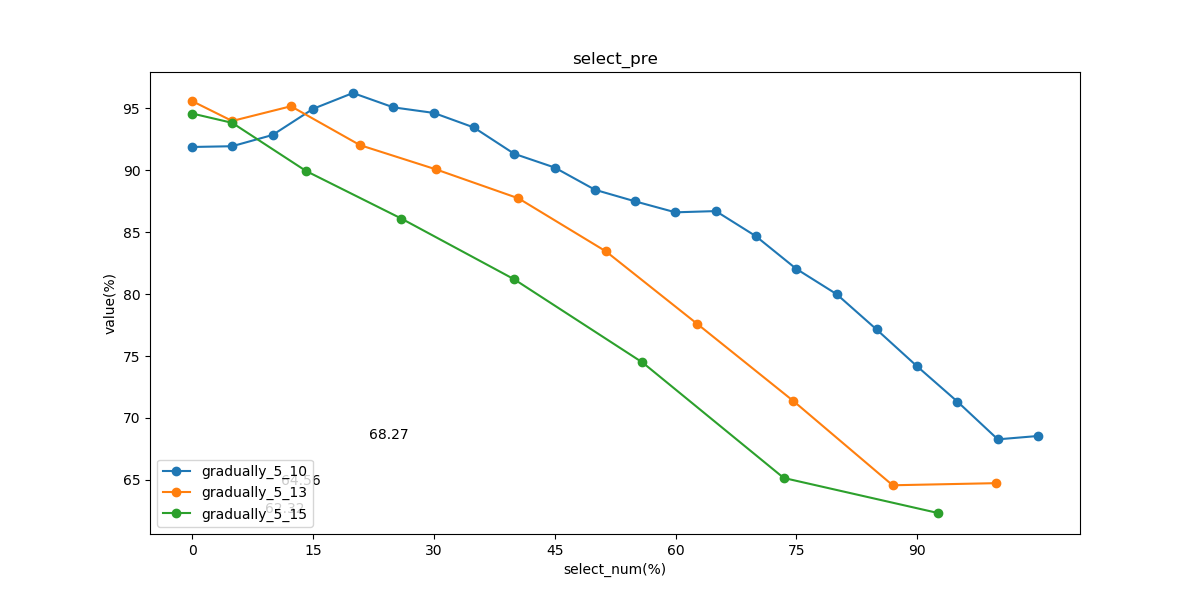
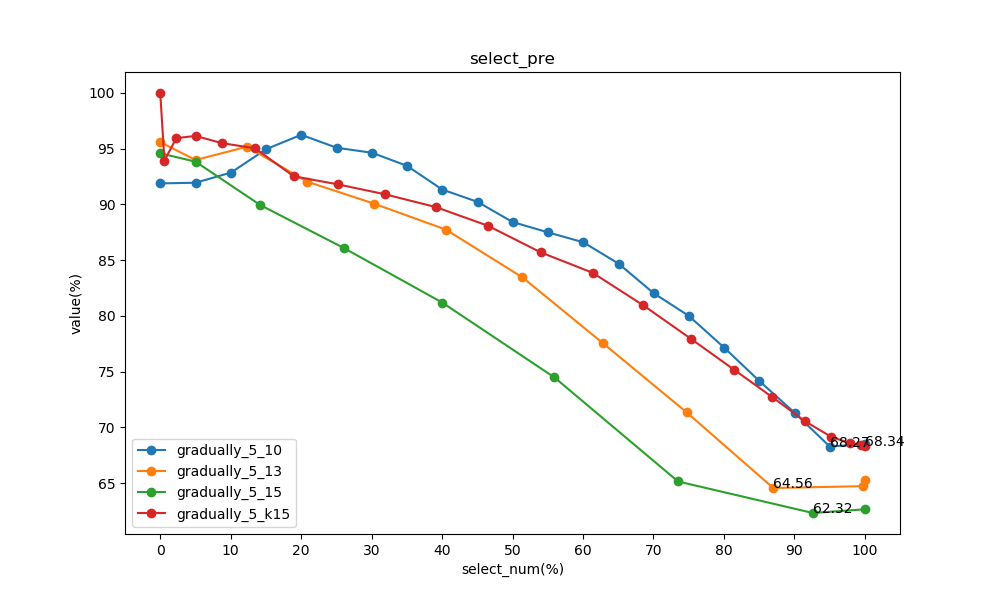
绘图成功

diff --git a/data.py b/data.py
@@ -12,36 +12,104 @@
 
 gradually_5_15={
     "title":"gradually_5_15",
-    "length": 8,
-    "p":15,
-    "mAP" : [28.2, 30.5, 36.7, 40.0, 47.0, 51.5, 52.7, 54.0],
-    "top1" : [33.3, 34.8, 43.2, 46.3, 54.4, 59.8, 60.3, 62.8],
-    "top5" : [50.0, 52.4, 58.4, 62.5, 70.8, 75.8, 76.5, 78.2],
-    "top10" : [56.0, 59.8, 63.7, 68.9, 76.1, 80.1, 82.5, 82.2],
-    "top20" : [63.4, 65.7, 69.7, 74.8, 80.8, 85.6, 87.0, 85.9],
-    "label_pre" : [40.8, 43.5, 48.3, 51.3, 56.6, 59.6, 61.6, 62.3],
-    "select_pre" : [94.59, 93.84, 89.95, 86.10, 81.2, 74.48, 65.15, 62.32]}
+    "length": 9,
+    "mAP" :       [28.2, 30.5, 36.7, 40.0, 47.0, 51.5, 52.7, 54.0,54.1],
+    "top1" :      [33.3, 34.8, 43.2, 46.3, 54.4, 59.8, 60.3, 62.8,63.4],
+    "top5" :      [50.0, 52.4, 58.4, 62.5, 70.8, 75.8, 76.5, 78.2,78.2],
+    "top10" :     [56.0, 59.8, 63.7, 68.9, 76.1, 80.1, 82.5, 82.2,82.8],
+    "top20" :     [63.4, 65.7, 69.7, 74.8, 80.8, 85.6, 87.0, 85.9,86.8],
+    "label_pre" : [40.8, 43.5, 48.3, 51.3, 56.6, 59.6, 61.6, 62.3,62.7],
+    "select_pre" : [94.59, 93.84, 89.95, 86.10, 81.2, 74.48, 65.15, 62.32,62.65]}
 
 gradually_5_13={
     "title":"gradually_5_13",
-    "length": 11,
-    "p":13,
-    "mAP" : [30.2,31.3,35.3,40.8,44.0,49.0,50.3,53.5,54.1,56.0,54.8],
-    "top1" : [35.9,35.9,40.6,47.3,50.3,57.0,59.4,62.5,62.8,65.4,63.4],
-    "top5" : [52.1,54.7,56.7,63.8,67.7,72.2,74.1,77.8,77.5,79.1,78.2],
-    "top10" : [59.4,60.4,63.0,69.7,72.8,76.5,78.5,81.8,81.5,83.6,83.5],
-    "top20" : [65.0,66.0,70.4,74.6,77.2,81.6,83.0,84.9,85.8,86.6,86.9],
-    "label_pre" : [42.3,42.7,46.9,53.6,56.3,58.2,61.6,63.3,64.1,64.5,64.7],
-    "select_pre" : [95.59,93.99,95.18,92.04,90.08,87.74,83.46,77.58,71.36,64.56,64.73]}
+    "length": 12,
+    "mAP" :       [30.2,31.3,35.3,40.8,44.0,49.0,50.3,53.5,54.1,56.0,54.8,55.6],
+    "top1" :      [35.9,35.9,40.6,47.3,50.3,57.0,59.4,62.5,62.8,65.4,63.4,64.5],
+    "top5" :      [52.1,54.7,56.7,63.8,67.7,72.2,74.1,77.8,77.5,79.1,78.2,78.5],
+    "top10" :     [59.4,60.4,63.0,69.7,72.8,76.5,78.5,81.8,81.5,83.6,83.5,82.3],
+    "top20" :     [65.0,66.0,70.4,74.6,77.2,81.6,83.0,84.9,85.8,86.6,86.9,86.5],
+    "label_pre" : [42.3,42.7,46.9,53.6,56.3,58.2,61.6,63.3,64.1,64.5,64.7,65.3],
+    "select_pre" : [95.59,93.99,95.18,92.04,90.08,87.74,83.46,77.58,71.36,64.56,64.73,65.26]}
 
 gradually_5_10={
     "title":"gradually_5_10",
-    "length": 22,
+    "length": 21,
     "p":10,
-    "mAP" : [29.4,30.1,34.0,39.4,40.6,42.2,45.8,47.2,46.9,49.2,51.3,52.1,53.3,52.9,56.2,56.4,58.6,56.7,57.1,57.2,56.2,57.6],
-    "top1" : [34.5,34.8,39.7,45.0,47.2,49.4,53.1,54.4,54.7,57.7,59.0,62.0,62.1,61.7,66.4,66.4,67.1,65.8,66.8,65.8,65.4,67.2],
-    "top5" : [49.0,52.0,56.7,62.0,63.4,64.5,69.7,71.2,72.4,71.9,76.9,75.8,78.2,78.3,79.9,79.2,81.2,78.8,81.1,80.3,80.2,80.5],
-    "top10" : [56.1,60.7,63.1,68.2,69.4,69.9,75.5,75.9,76.8,78.1,80.8,80.6,82.8,82.9,83.5,83.5,84.5,82.8,84.6,84.3,84.6,83.8],
-    "top20" : [63.0,66.5,68.8,73.4,76.1,75.5,81.3,81.1,80.5,82.9,83.5,84.0,85.3,85.6,87.3,87.7,87.6,87.2,87.9,88.7,87.5,88.2],
-    "label_pre" : [41.8,42.8,45.3,50.1,51.8,54.8,56.0,57.8,57.8,60.0,62.7,62.6,64.7,65.1,65.3,66.7,68.1,67.5,67.8,68.2,68.3,68.5],
-    "select_pre" : [91.89,91.95,92.86,94.97,96.25,95.09,94.64,93.47,91.34,90.23,88.43,87.50,86.61,86.71,84.69,82.05,80.00,77.15,74.18,71.32,68.27,68.54]}
+    "mAP" :        [29.4,30.1,34.0,39.4,40.6,42.2,45.8,47.2,46.9,49.2,51.3,52.1,53.3,56.2,56.4,58.6,56.7,57.1,57.2,56.2,57.6],
+    "top1" :       [34.5,34.8,39.7,45.0,47.2,49.4,53.1,54.4,54.7,57.7,59.0,62.0,62.1,66.4,66.4,67.1,65.8,66.8,65.8,65.4,67.2],
+    "top5" :       [49.0,52.0,56.7,62.0,63.4,64.5,69.7,71.2,72.4,71.9,76.9,75.8,78.2,79.9,79.2,81.2,78.8,81.1,80.3,80.2,80.5],
+    "top10" :      [56.1,60.7,63.1,68.2,69.4,69.9,75.5,75.9,76.8,78.1,80.8,80.6,82.8,83.5,83.5,84.5,82.8,84.6,84.3,84.6,83.8],
+    "top20" :      [63.0,66.5,68.8,73.4,76.1,75.5,81.3,81.1,80.5,82.9,83.5,84.0,85.3,87.3,87.7,87.6,87.2,87.9,88.7,87.5,88.2],
+    "label_pre" :  [41.8,42.8,45.3,50.1,51.8,54.8,56.0,57.8,57.8,60.0,62.7,62.6,64.7,65.3,66.7,68.1,67.5,67.8,68.2,68.3,68.5],
+    "select_pre" : [91.89,91.95,92.86,94.97,96.25,95.09,94.64,93.47,91.34,90.23,88.43,87.50,86.61,84.69,82.05,80.00,77.15,74.18,71.32,68.27,68.54]}
+
+gradually_5_k15={
+    "title":"gradually_5_k15",
+    "length": 22,
+    "mAP" :       [29.0,28.4,30.8,32.8,34.7,36.5,39.8,42.9,47.3,48.4,49.3,51.2,53.5,53.9,55.8,58.1,56.1,58.2,57.3,56.5,57.2,57.5],
+    "top1" :      [35.0,33.2,36.0,38.6,40.7,41.2,46.4,49.6,54.0,57.8,57.8,60.7,63.5,63.8,64.7,67.4,65.2,67.0,66.5,65.2,66.4,67.4],
+    "top5" :      [51.4,52.6,51.1,54.3,58.5,58.3,63.7,65.2,70.5,71.1,74.4,74.9,76.6,78.3,79.6,81.2,80.1,81.3,81.1,80.5,80.5,82.3],
+    "top10" :     [57.3,58.1,56.7,61.0,63.2,64.2,69.1,70.4,76.2,76.6,79.3,79.2,80.6,81.8,84.2,85.5,85.6,85.8,84.8,83.5,85.6,85.6],
+    "top20" :     [62.7,64.7,62.3,67.0,68.4,71.7,74.4,76.1,81.2,82.2,84.0,83.9,84.9,85.9,87.2,88.5,88.6,89.3,88.3,87.0,89.2,88.3],
+    "label_pre" : [39.4,41.2,41.9,43.4,47.3,49.7,50.9,54.8,58.6,59.8,60.8,61.9,64.5,66.1,66.8,66.8,67.5,68.1,67.8,68.3,68.3,68.3],
+    "select_pre" : [100.0,93.94,95.95,96.15,95.5,95.04,92.53,91.81,90.91,89.77,88.09,85.70,83.87,80.96,77.96,75.17,72.71,70.53,69.15,68.57,68.39,68.34]}
+
+
+import  numpy as np
+import  math
+def get_len(train_name):
+    return len(train_name["mAP"])
+
+def percent_gradually_5_k15():
+    Nu = 1494.0
+    k = 15
+    x = np.linspace(1,gradually_5_k15["length"],gradually_5_k15["length"])
+    def fun(x):
+        num =  min(math.ceil(-(Nu/2) * np.cos((k/100) * (x-1))+(Nu/2)),Nu)
+        return num*100/Nu
+    xx = list(map(fun,x))
+    return xx
+
+def percent_gradually_5_10():
+    Nu = 1494.0
+    q = 1.0
+    ef = 5
+    x = np.linspace(1,gradually_5_10["length"],gradually_5_10["length"])
+    def fun(x):
+        num =  min(math.ceil(Nu * math.pow(x-1,q)*(ef/100)),Nu)
+        return num*100/Nu
+    xx = list(map(fun,x))
+    return xx
+
+def percent_gradually_5_13():
+    Nu = 1494.0
+    q = 1.3
+    ef = 5
+    x = np.linspace(1,gradually_5_13["length"],gradually_5_13["length"])
+    def fun(x):
+        num =  min(math.ceil(Nu * math.pow(x-1,q)*(ef/100)),Nu)
+        return num*100/Nu
+    xx = list(map(fun,x))
+    return xx
+
+def percent_gradually_5_15():
+    Nu = 1494.0
+    q = 1.5
+    ef = 5
+    x = np.linspace(1,gradually_5_15["length"],gradually_5_15["length"])
+    def fun(x):
+        num =  min(math.ceil(Nu * math.pow(x-1,q)*(ef/100)),Nu)
+        return num*100/Nu
+    xx = list(map(fun,x))
+    return xx
+
+
+
+
+
+
+if __name__=="__main__":
+    # print(get_len(gradually_5_15))
+    percent_gradually_5_k15()
+    percent_gradually_5_15()

diff --git a/main.py b/main.py
@@ -50,6 +50,7 @@ def draw_line():
     plt.ylim(0, 1600)
     plt.xticks(range(0,22,1))
     plt.legend(loc='lower right')
+    plt.savefig("lines_compare")
     plt.show()
 
 
@@ -66,7 +67,7 @@ def draw_lines_for_one_train(train_name):
     plt.annotate(str(train_name["top1"][top1_max]), xy=(top1_max + 2, train_name["top1"][top1_max]))
     plt.plot(x,train_name["label_pre"],label="label_pre",marker='o')
     plt.plot(x,train_name["select_pre"],label="select_pre",marker='o')
-    plt.xticks(range(0, train_name["length"]+1, 1))
+    plt.xticks(range(1, train_name["length"]+1, 1))
     plt.xlabel("steps")
     plt.ylabel("value(%)")
     plt.title(train_name["title"])
@@ -85,11 +86,11 @@ def draw_gradually_compare(compare_list,compare_item):
         max_point = np.argmax(train_name[compare_item])
         if compare_item=="select_pre":
             max_point = np.argmin(train_name[compare_item])
-        plt.annotate(str(train_name[compare_item][max_point]), xy=(max_point + 2, train_name[compare_item][max_point]))
+        plt.annotate(str(train_name[compare_item][max_point]), xy=(max_point + 1, train_name[compare_item][max_point]))
         x = np.linspace(1, train_name["length"] , train_name["length"])
         # print(x)
         plt.plot(x,train_name[compare_item],label=train_name["title"],marker='o')
-    plt.xticks(range(0, max_len+1, 1))
+    plt.xticks(range(1, max_len+1, 1))
     plt.xlabel("steps")
     plt.ylabel("value(%)")
     plt.title(compare_item)
@@ -98,50 +99,62 @@ def draw_gradually_compare(compare_list,compare_item):
     else: plt.legend(loc="lower right")
     plt.savefig("compares/{}".format(compare_item))
     plt.show()
-
-
     pass
     # draw_mAP
 
 
-def draw_gradually_compare2(compare_list,compare_item):   #这个函数实现起来确实有难度啊
-    plt.figure(figsize=(12, 6))
-    max_len = 0
-    nu  = 1494.0
-    for train_name in compare_list:
-        train_len = train_name["length"]
-        if(max_len<train_len):
-            max_len = train_len
-        def change(x):
-            return int(nu * math.pow(x,train_name["p"]/10) * 0.05 ) / (nu/100)
-        max_point = int(change(np.argmax(train_name[compare_item])))
-        min_point = int(change(np.argmin(train_name[compare_item])))
-        print( max_point, min_point)
-        if compare_item!="select_pre":
-            plt.annotate(str(train_name[compare_item][max_point]),
-                         xy=(max_point + 2, train_name[compare_item][max_point]))
-        else:
-            plt.annotate(str(train_name[compare_item][min_point]),
-                         xy=(min_point + 2, train_name[compare_item][min_point]))
-        x = np.linspace(0, train_name["length"]-1 , train_name["length"])
-        num = [0]
-        # print(x)
-        for i in x[1:]:
-            number = change(i)
-            num.append(number)
-        # print(num)
-        plt.plot(num,train_name[compare_item],label=train_name["title"],marker='o')
-    plt.xticks(range(0, 100, 15))
+def draw_gradually_percent(compare_item):   #这个函数实现起来确实有难度啊
+    plt.figure(figsize=(10, 6))
+    x1 = percent_gradually_5_10()
+    x2 = percent_gradually_5_13()
+    x3 = percent_gradually_5_15()
+    x4 = percent_gradually_5_k15()
+    x = [x1,x2,x3,x4]
+    compare_list = [gradually_5_10,gradually_5_13,gradually_5_15,gradually_5_k15]
+    for i in range(len(compare_list)):
+        train_name = compare_list[i]
+        xx = x[i]
+        yy =  train_name[compare_item]
+        plt.plot(xx, yy, label=train_name["title"], marker='o')
+        max_point = np.argmax(train_name[compare_item])
+        if compare_item == "select_pre":
+            max_point = np.argmin(train_name[compare_item])
+        plt.annotate(str(train_name[compare_item][max_point]), xy=(xx[max_point], train_name[compare_item][max_point]))
+
+    plt.xticks(range(0, 105, 10))
     plt.xlabel("select_num(%)")
     plt.ylabel("value(%)")
     plt.title(compare_item)
-    plt.legend(loc="lower left")
+    if compare_item!="select_pre":
+        plt.legend(loc="upper left")
+    else: plt.legend(loc="lower left")
     plt.savefig("compares_percent/{}".format(compare_item))
     plt.show()
 
 
+
+def draw_gradually_compare_all():
+    compare_list=[gradually_5_10,gradually_5_13,gradually_5_15,gradually_5_k15]
+    compare_items = ["mAP","top1","top5","top10","top20","label_pre","select_pre"]
+    for item in compare_items:
+        draw_gradually_compare(compare_list,item)
+
+
+def draw_lines_for_all_train():
+    train_list = [gradually_5_10, gradually_5_13, gradually_5_15, gradually_5_k15]
+    for train_name in train_list:
+        draw_lines_for_one_train(train_name)
+
+
+def draw_gradually_all_percent():
+    compare_items = ["mAP", "top1", "top5", "top10", "top20", "label_pre", "select_pre"]
+    for items  in compare_items:
+        draw_gradually_percent(items)
+
+
 if __name__ =="__main__":
-    draw_line()
-    compare_list=[gradually_5_10,gradually_5_13,gradually_5_15]
-    # draw_gradually_compare(compare_list,"select_pre")
-    # draw_lines_for_one_train(gradually_5_15)
+    pass
+    # draw_lines_for_all_train()
+    # draw_gradually_compare_all()
+    # draw_gradually_all_percent()
+    # draw_line()
